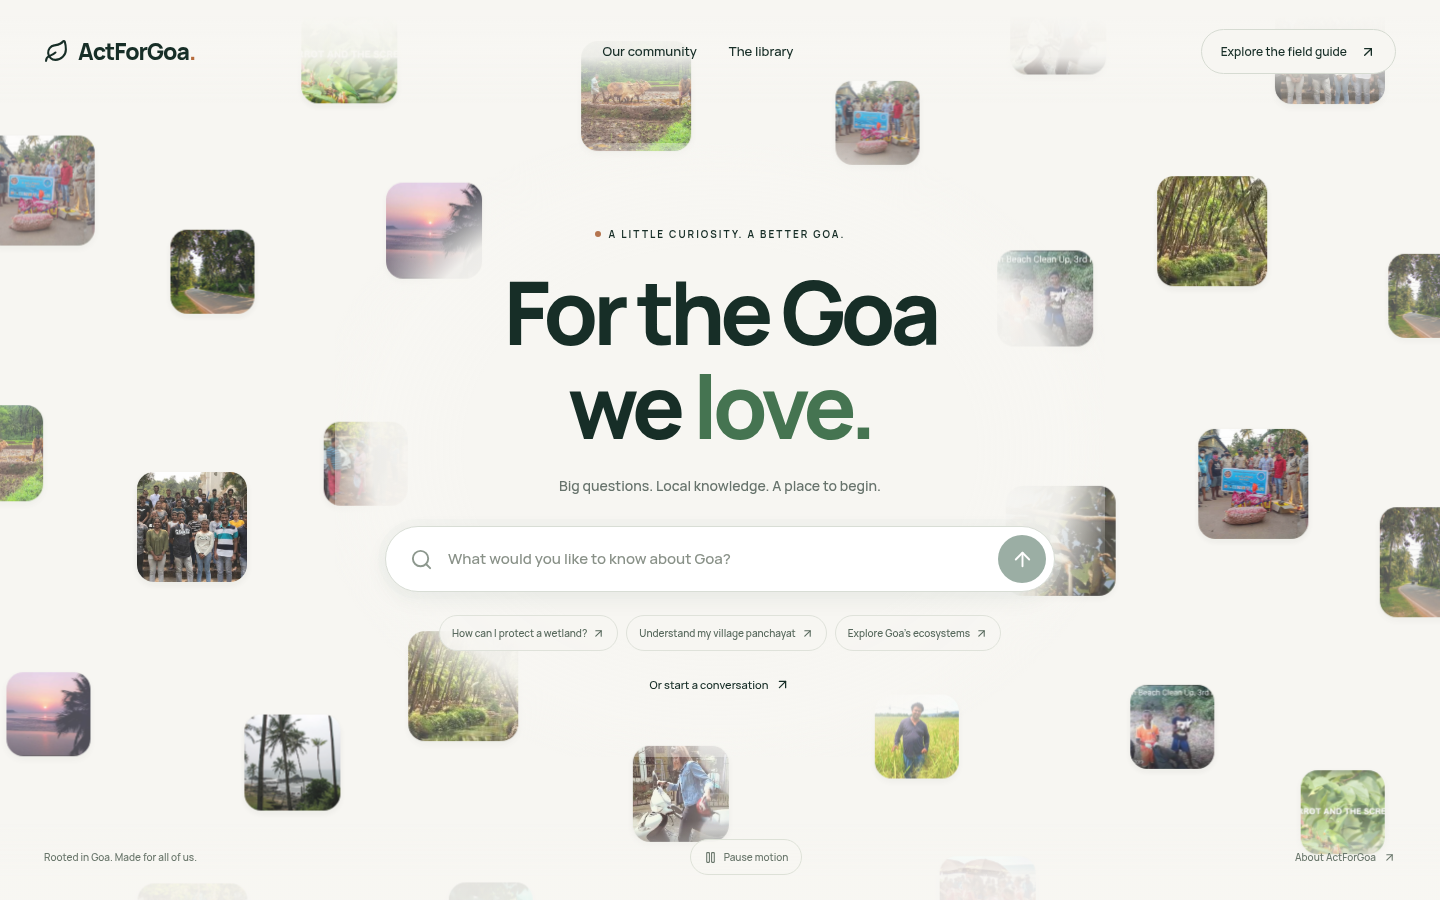
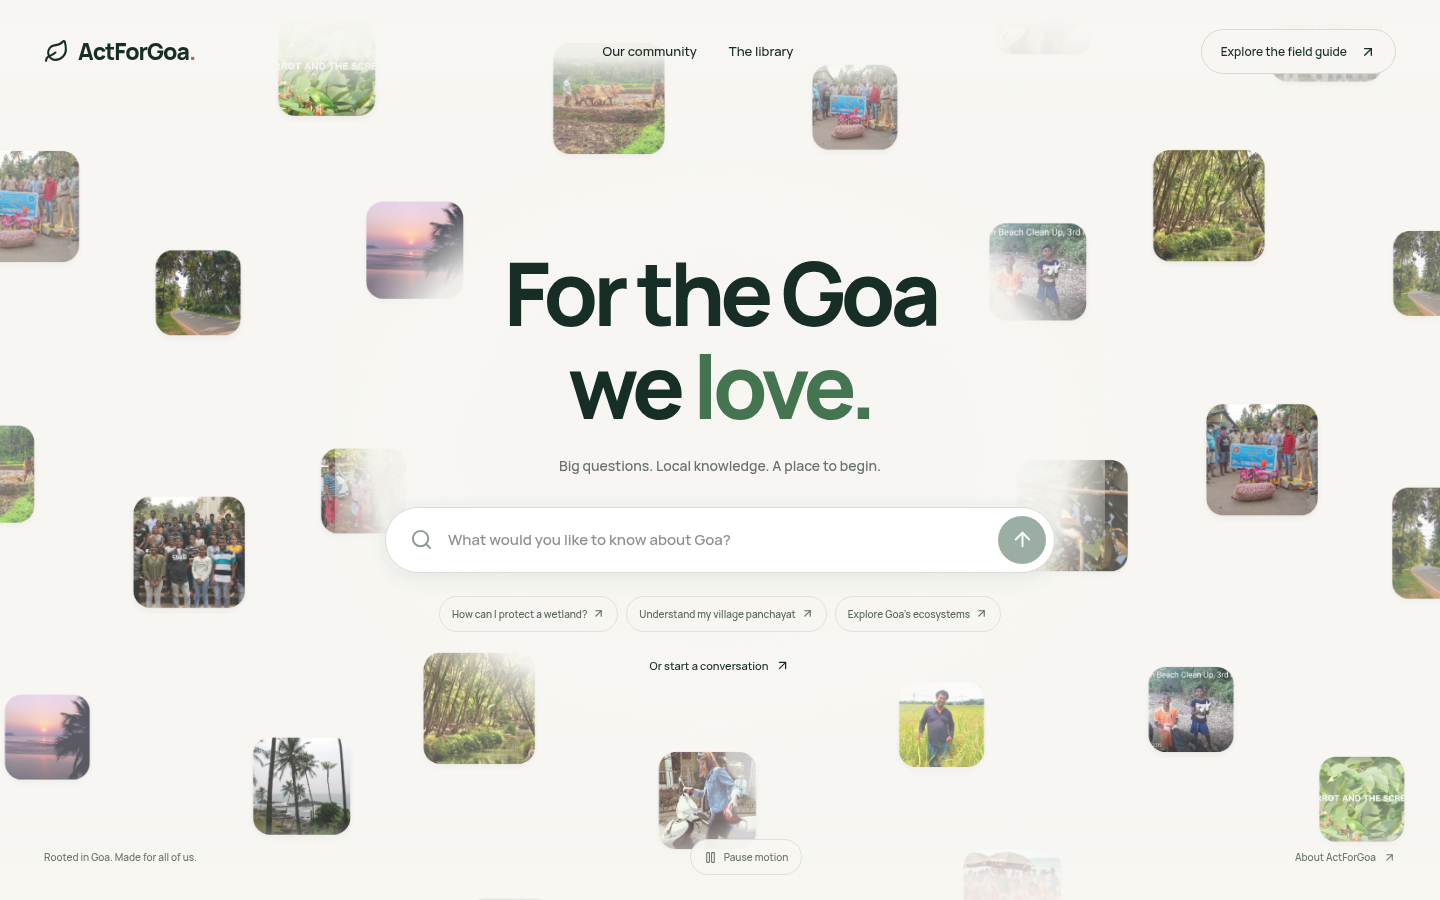
Record live spiral entrance and no-eyebrow verification

diff --git a/reports/orbit-landing-2026-10-28/README.md b/reports/orbit-landing-2026-10-28/README.md
@@ -18,3 +18,9 @@ Internal origin alias: `actforgoa-explore-assets.vercel.app` (alias-specific pub
 - Route `94bf18e7-a5ea-45a0-ad4b-3d9b168ff70d`: same host, `^/orbit-assets/(.*)$` → `https://actforgoa-explore-assets.vercel.app/$1`.
 
 A future integrated deployment must explicitly retire these two project routing rules after verifying its native `/explore`; otherwise the isolated page keeps precedence. Do not overwrite unrelated staged routing changes. Before this feature there were no project routing rules. The existing site's optional `/api/curation` returns 404 and falls back normally; no new API service was published. AI generation itself was not exercised.
+
+### Entrance and no-eyebrow update
+
+User follow-up source `ce0b0ed` removes the eyebrow entirely, records the no-eyebrow preference in `AGENTS.md`, and adds a three-second spiral entrance. Scene scale settles from 1.16 to 1; ring and matching counter animations start at 5× playback and ease quadratically to 1× after 3000ms, keeping images upright. Reduced-motion disables the entrance and orbit animation.
+
+Build passed. Local and public Chromium checks confirm initial playback >1, exact 1× after three seconds, all matching counter animations settled and zero eyebrow elements. The internal asset alias now serves deployment `dpl_8LKejjCqfL5fdVNoDx77d6YPeEtn` at the same public `/explore` route. Existing production target and route rules are unchanged.

diff --git a/docs/CLOUD-IMPLEMENTATION-PLAN.md b/docs/CLOUD-IMPLEMENTATION-PLAN.md
@@ -143,3 +143,5 @@ Implemented + tested: 178 Node tests and production build pass; Chromium desktop
 ### Orbit landing live follow-up
 
 User explicitly requested shipping `/explore` on the existing field-guide URL and aligning photos upright. Source `755177e` implements the alignment. The page is now live via two scoped Vercel project routing rules, with isolated static deployment `dpl_4VzSLExLmufsCCJ9HvNohACTbFXu`; existing production deployment/alias is unchanged. Public desktop + 390/320px checks pass, including loaded photos and exact draft transfer. Full publication/route IDs and retirement instructions are recorded in `reports/orbit-landing-2026-10-28/README.md`. Implemented, tested and route-published; PR #98 source is not yet merged. Future release owners must remove the scoped routing overrides when integrated `/explore` is deployed and verified.
+
+Orbit page follow-up `ce0b0ed` is live through isolated asset deployment `dpl_8LKejjCqfL5fdVNoDx77d6YPeEtn`: no eyebrow labels; upright photos spiral inward at initial 5× speed and settle to 1× in three seconds. Build and live Chromium entrance checks pass. No change to existing production target or project route definitions. `AGENTS.md` records the user's explicit no-eyebrow preference.
